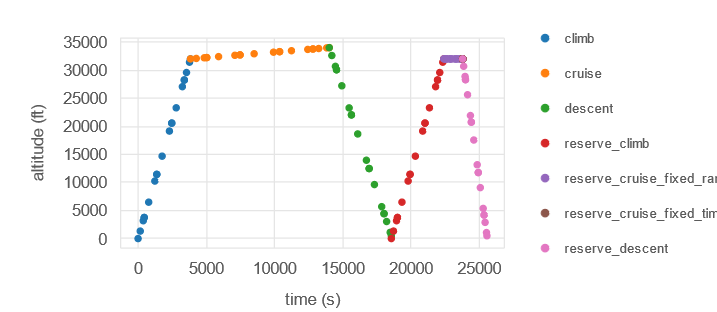
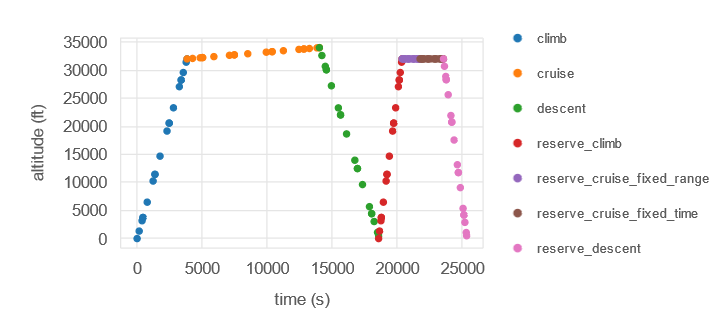
updated reserve docs with new plots

diff --git a/aviary/examples/reserve_missions/run_reserve_mission_multiphase.py b/aviary/examples/reserve_missions/run_reserve_mission_multiphase.py
@@ -72,7 +72,7 @@ phase_info.update(
             'user_options': {
                 'reserve': True,
                 # Time length of this phase
-                'time_duration': (45, 'min'),
+                'time_duration': (30, 'min'),
                 'num_segments': 5,
                 'order': 3,
                 'distance_solve_segments': False,
